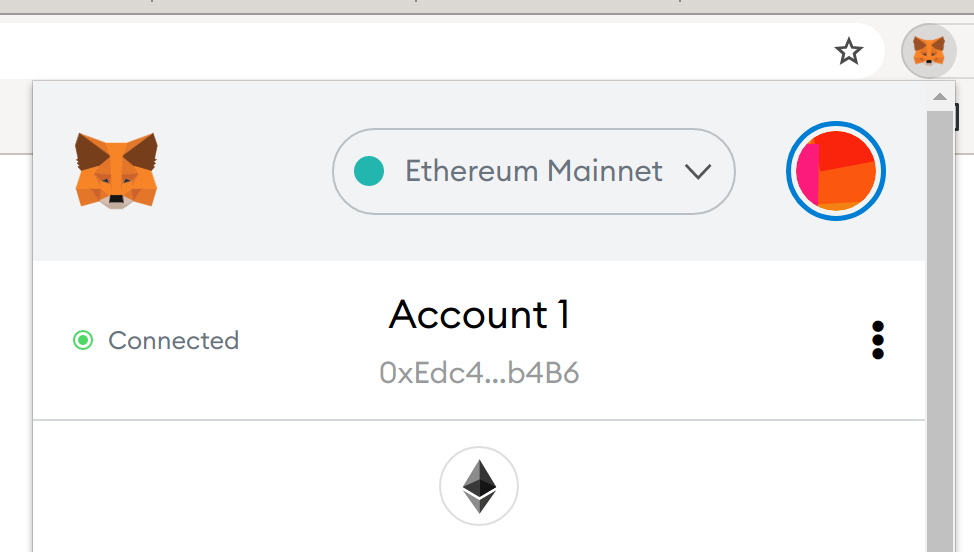
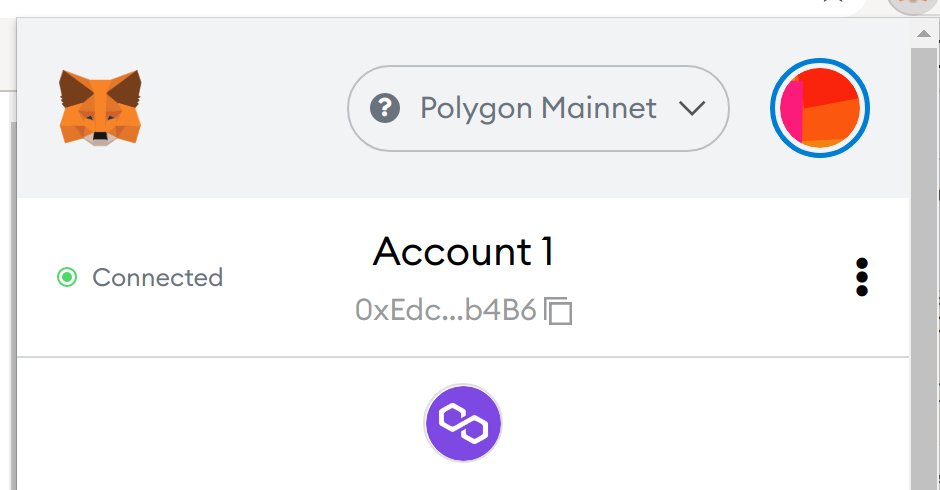
Supported Polygon Mainnet

diff --git a/migrations/2_johnlawcoin_migration.js b/migrations/2_johnlawcoin_migration.js
@@ -20,23 +20,23 @@ const JohnLawBond = artifacts.require("JohnLawBond");
 
 module.exports = async function (deployer) {
   const coin = await deployProxy(JohnLawCoin, []);
-  console.log("a");
+  console.log("a", coin.address);
   const bond = await deployProxy(JohnLawBond, []);
-  console.log("b");
+  console.log("b", bond.address);
   const oracle = await deployProxy(Oracle, []);
-  console.log("c");
+  console.log("c", oracle.address);
   const bond_operation = await deployProxy(BondOperation, [bond.address]);
-  console.log("d");
+  console.log("d", bond_operation.address);
   const open_market_operation = await deployProxy(OpenMarketOperation, []);
-  console.log("e");
+  console.log("e", open_market_operation.address);
   const eth_pool = await deployProxy(EthPool, []);
-  console.log("f");
+  console.log("f", eth_pool.address);
   const logging = await deployProxy(Logging, []);
-  console.log("g");
+  console.log("g", logging.address);
   const acb = await deployProxy(
     ACB, [coin.address, oracle.address, bond_operation.address,
           open_market_operation.address, eth_pool.address, logging.address]);
-  console.log("h");
+  console.log("h", acb.address);
   
   console.log("JohnLawCoin address: ", coin.address);
   console.log("JohnLawBond address: ", bond.address);

diff --git a/truffle-config.js b/truffle-config.js
@@ -115,7 +115,8 @@ module.exports = {
       websocket: true,
       networkCheckTimeout: 1000000000,
       network_id: 137,     // Polygon's id
-      gas: 5500000,        // Polygon has a lower block limit than mainnet
+      gas: 15000000,        // Polygon has a lower block limit than mainnet
+      gasPrice: 80000000000,
       confirmations: 2,    // # of confs to wait between deployments. (default: 0)
       timeoutBlocks: 2000000,  // # of blocks before a deployment times out  (minimum/default: 50)
       skipDryRun: true     // Skip dry run before migrations? (default: false for public nets )

diff --git a/wallet/abi.js b/wallet/abi.js
@@ -8,7 +8,7 @@ const ACB_ADDRESS_ON_ROPSTEN = "";
 const ACB_ADDRESS_ON_RINKEBY = "0x395cb8a3fDA6bb2636F88DB4cCCfC5768FE80E6F";
 const ACB_ADDRESS_ON_ETHEREUM = "";
 const ACB_ADDRESS_ON_MUMBAI = "0x9F8aDb0a2B86b5f6122eA571D83C28a11f922d78";
-const ACB_ADDRESS_ON_POLYGON = "";
+const ACB_ADDRESS_ON_POLYGON = "0xe8E194472E3504DcEb3E6725284A5822810f4984";
 
 const ETHERSCAN_ADDRESS_ON_ROPSTEN = "https://ropsten.etherscan.io/";
 const ETHERSCAN_ADDRESS_ON_RINKEBY = "https://rinkeby.etherscan.io/";

diff --git a/HowToUseWallet.md b/HowToUseWallet.md
@@ -38,11 +38,11 @@ The detailed calculation is described in the whitepaper, but in summary, **you j
 
 ## Purchase and sell coins
 
-The ACB implements an *open market operation* to increase / decrease the total coin supply. When the exchange rate is higher than 1 JLC = 1.0 USD, the open market operation sells JLC and purchases ETH to increase the total coin supply. When the exchange rate is 1 JLC = 0.6 USD or lower, the open market operation sells ETH and purchases JLC to decrease the total coin supply. The open market operation is controlled by the *coin budget*.
+The ACB implements an *open market operation* to increase / decrease the total coin supply. When the exchange rate is higher than 1 JLC = 1.0 USD, the open market operation sells JLC and purchases MATIC to increase the total coin supply. When the exchange rate is 1 JLC = 0.6 USD or lower, the open market operation sells MATIC and purchases JLC to decrease the total coin supply. The open market operation is controlled by the *coin budget*.
 
-You can sell ETH and purchase JLC when the coin budget is positive. You can sell JLC and purchase ETH when the coin budget is negative.
+You can sell MATIC and purchase JLC when the coin budget is positive. You can sell JLC and purchase MATIC when the coin budget is negative.
 
-The open market operation is implemented as a Dutch auction. When the coin budget is positive, the price (ETH / JLC) is lowered until the coin budget goes down to zero. When the coin budget is negative, the price (ETH / JLC) is raised until the coin budget goes up to zero.
+The open market operation is implemented as a Dutch auction. When the coin budget is positive, the price (MATIC / JLC) is lowered until the coin budget goes down to zero. When the coin budget is negative, the price (MATIC / JLC) is raised until the coin budget goes up to zero.
 
 ## Purchase and redeem bonds
 
@@ -57,12 +57,12 @@ You can redeem bonds after the redemption dates. You can also redeem bonds (rega
 Initially you have zero coins. There are two ways to increase your coins from zero:
 
 1. Contribute to the voting and earn the reward.
-1. Pay ETH and purchase coins using the open market operation.
+1. Pay MATIC and purchase coins using the open market operation.
 
 When you have coins, there are multiple ways to increase your coins:
 
 1. Contribute to the voting and earn the reward; the more coins you possess, the more reward you can earn.
-1. Pay ETH and purchase coins using the open market operation.
+1. Pay MATIC and purchase coins using the open market operation.
 1. Purchase and redeem bonds (996 coins become 1000 coins after 12 weeks).
 
 Once real-world currency exchangers support the JLC <-> USD conversion, you can purchase coins from the currency exchangers. You can also increase your coins by performing arbitrage. When the exchange rate is 1 JLC = 1.2 USD and you believe that the ACB has the ability of adjusting the exchange rate to 1 JLC = 1.0 USD, you can earn money by selling coins now and buying them back later. When the exchange rate is 1 JLC = 0.8 USD and you believe that the ACB has the ability of adjusting the exchange rate to 1 JLC = 1.0 USD, you can earn money by buying coins now and selling them back later. You can also perform arbitrage using the open market operation.

diff --git a/HowToInstallMetamask.md b/HowToInstallMetamask.md
@@ -2,9 +2,9 @@
 
 [MetaMask](https://metamask.io/) is a crypto wallet that enables you to connect to Ethereum's blockchain from your browser. MetaMask supports Chrome, Firefox, Opera and Brave. See [this step-by-step guide](https://levelup.gitconnected.com/how-to-use-metamask-a-step-by-step-guide-f380a3943fb1) for installing Metamask.
 
-# Step 2: Connect to the Ethereum network
+# Step 2: Connect to the Polygon Mainnet
 
-Click the Metamask extension and connect to the Ethereum Mainnet.
+Follow [this instruction](https://docs.polygon.technology/docs/develop/metamask/config-polygon-on-metamask/) and add the Polygon Mainnet to your Metamask.
 
 <img src="./docs/metamask_network.png" width=360px>
 
@@ -12,7 +12,7 @@ Click the Metamask extension and connect to the Ethereum Mainnet.
 
 # Step 3: Connect your account with the wallet
 
-Open [the wallet](https://xharaken.github.io/john-law-coin/wallet/wallet.html). It will automatically pop up the Metamask extension. Follow the instructions and connect your account with the wallet.
+Open [the wallet](https://xharaken.github.io/john-law-coin/wallet/wallet.html). It will automatically pop up the Metamask extension. Follow the instruction and connect your account with the wallet.
 
 <img src="./docs/metamask_connect.png" width=240px>
 
@@ -24,8 +24,11 @@ If it's marked as "Not connected", click it and then connect your account.
 
 <img src="./docs/metamask_not_connected.png" width=360px>
 
-# Step 4: Deposit ETH
+# Step 4: Deposit MATIC
 
-You need to deposit some ETH to your account to use JohnLawCoin because JohnLawCoin is implemented on the Ethereum blockchain and thus you need to pay the transaction fee in ETH. Please buy some ETH from a cryptocurrency exchanger and deposit it to your account.
+You need to deposit some MATIC to your Polygon wallet to use JohnLawCoin because you need to pay the transaction fee in MATIC. There are [multiple ways](https://medium.com/prepo/setting-up-metamask-and-getting-eth-matic-on-polygon-step-by-step-guide-fd55147a0f05) to get MATIC. The easiest way is to buy MATIC at [Binance](https://www.binance.com/) or [Ascendex](https://ascendex.com/en/global-digital-asset-platform) and withdraw it to your Polygon wallet directly. As of 2022 Jan, the transaction fee of the Polygon Mainnet is around $0.01 - $0.05 per transaction. Putting $10 of MATIC will be sufficient to play with JohnLawCoin.
 
-*[Note for advanced readers: If you are testing JohnLawCoin on the Rinkeby Testnet, you can get some ETH from a [faucet here](https://faucet.rinkeby.io/).]*
+# Note for developers: How to connect to the Rinkeby Testnet
+
+JohnLawCoin Beta is deployed on the Rinkeby Testnet for testing purposes. To play with JohnLawCoin Beta, choose the Rinkeby Testnet in your Metamask. You can get some ETH for free from a [faucet here](https://faucet.rinkeby.io/). JohnLawCoin Beta is only for testing and the state may be reset without any notice.
+

diff --git a/README.md b/README.md
@@ -1,6 +1,6 @@
 # What is JohnLawCoin?
 
-***[Note: Currently JohnLawCoin is being tested on the Testnet. Your feedback is critical to improve the system before it's launched to the Ethereum Mainnet (planned in 2021).]***
+***[Note: Currently JohnLawCoin is being tested on the Testnet. Your feedback is critical to improve the system before it's launched to the [Polygon Mainnet](https://polygon.technology/) (planned in 2022 Jan).]***
 
 <img src="./docs/logo.png" width=120px>
 
@@ -18,7 +18,9 @@ See [the overview slide](https://docs.google.com/presentation/d/115iIoL1q3oUpxEU
 
 ## Step 1
 
-[Install MetaMask](./HowToInstallMetamask.md). MetaMask is a crypto wallet that enables you to connect to Ethereum's blockchain from your browser. MetaMask supports Chrome, Firefox, Opera and Brave.
+[Install MetaMask](./HowToInstallMetamask.md). MetaMask is a crypto wallet that enables you to connect to Ethereum-based blockchain from your browser. MetaMask supports Chrome, Firefox, Opera and Brave.
+
+JohnLawCoin uses the [Polygon Mainnet](https://polygon.technology/) instead of the Ethereum Mainnet. The reason is that as of 2022 Jan, the transaction fee of the Ethereum Mainnet is too high for users to use JohnLawCoin ($60 - $250 per transaction). On the other hand, the transaction fee on the Polygon Mainnet is $0.01 - $0.1 per transaction. JohnLawCoin will revisit the option to use the Ethereum Mainnet when Ethereum 2.0 is available and lowers the transaction fee enough.
 
 ## Step 2
 
